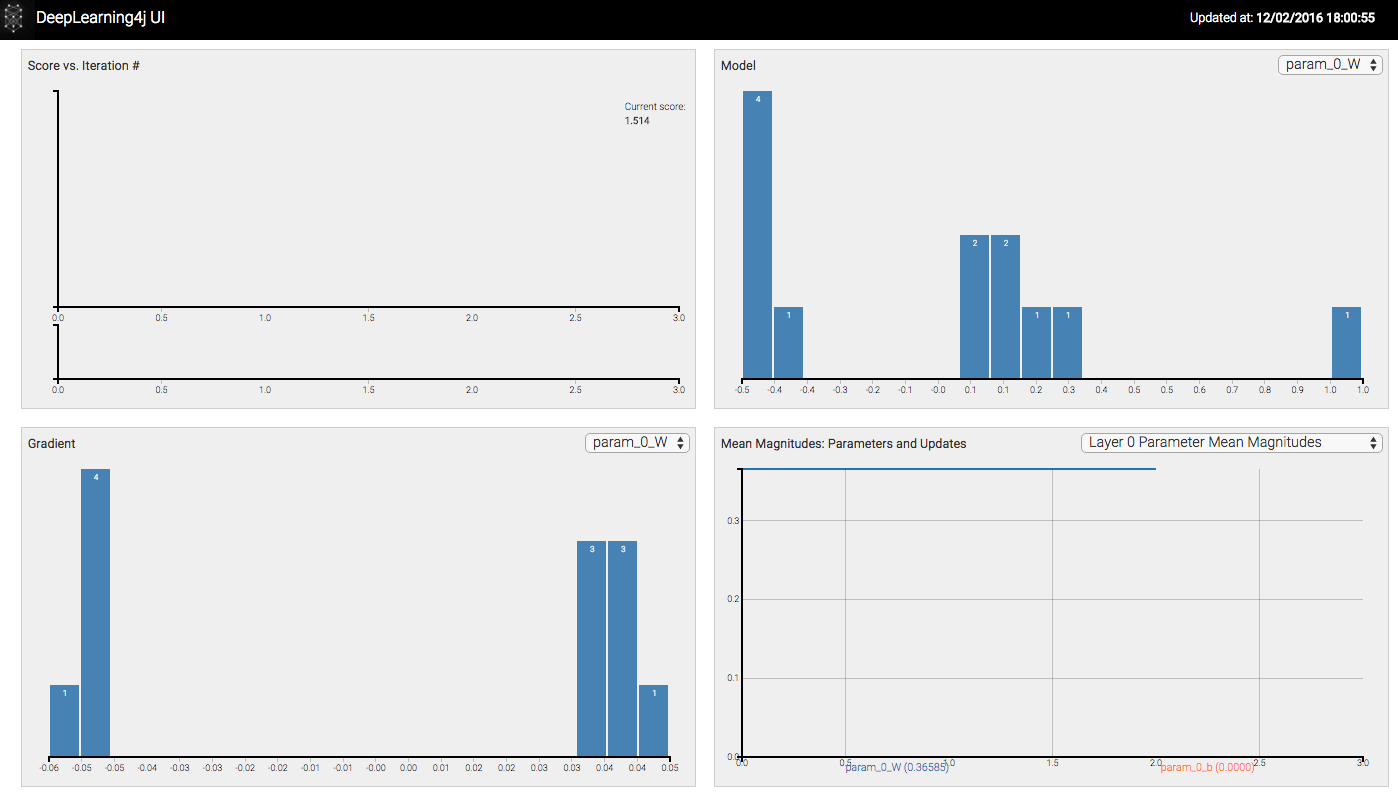
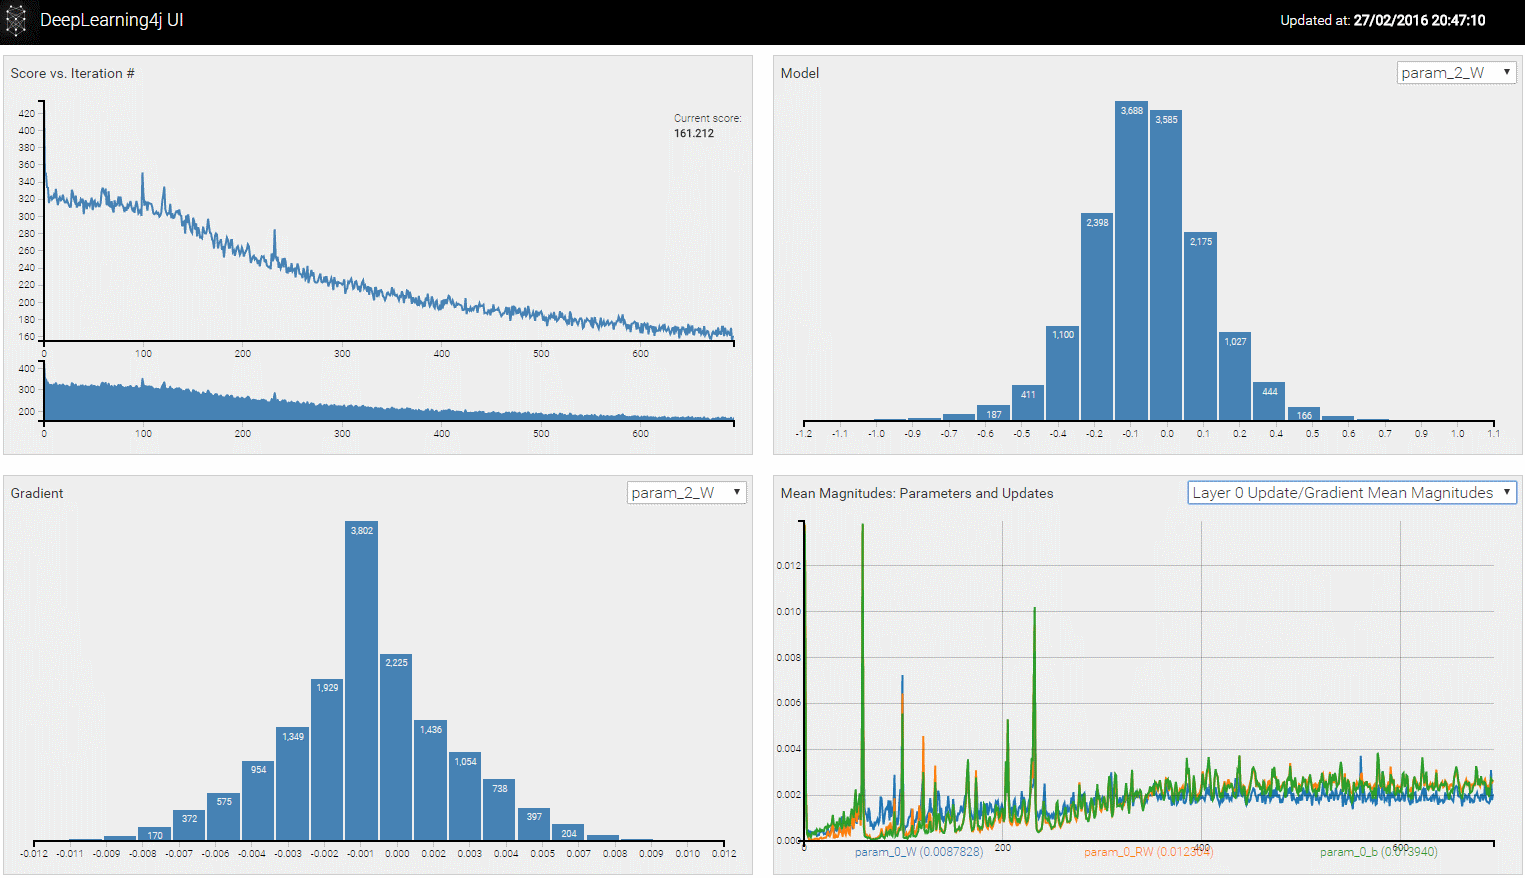
Update UI page (simplify, add updated image); remove get-involved page in favor of dev page
Former-commit-id: 52870a6ed61364ad153d99695bf1092dba05e268 [formerly 95f69c79b16e028a0f4aa8988672751526a7b55b]
Former-commit-id: 4840684a8de63dabcddee17e609d684610cbae80

diff --git a/documentation.html b/documentation.html
@@ -35,16 +35,15 @@ layout: default
                         <li><a href="http://nd4j.org/benchmarking">Run Benchmarks</a>
                         <li><a href="../buildtools">Configure DL4J in Ivy, Gradle, SBT etc</a>
                         <li><a href="../doc/">Find a DL4J Class or Method</a></li>
-                        <li><a href="../troubleshootingneuralnets">Troubleshoot Training & Select Network Hyperparameters</a></li>
                         <li><a href="../debug">Debug Neural Net Models</a></li>
                         <li><a href="../modelpersistence">Save and Load Models</a></li>
                         <li><a href="../output">Interpret Neural Net Output</a></li>
                         <li><a href="../tsne-visualization">Visualize Data with t-SNE</a></li>
                         <li><a href="http://nd4j.org/gpu_native_backends.html">Swap CPUs for GPUs</a></li>
                         <li><a href="../image-data-pipeline">Customize an Image Pipeline</a></li>
-                        <li><a href="../get-involved">Get Involved</a></li>
                         <li><a href="../linear-regression">Perform Regression With Neural Nets</a></li>
-                        <li><a href="../visualization">Render DL Visualizations in the Browser</a></li>
+						<li><a href="../troubleshootingneuralnets">Troubleshoot Training & Select Network Hyperparameters</a></li>
+                        <li><a href="../visualization">Visualize, Monitor and Debug Network Learning</a></li>
                         <li><a href="../spark-fast-native-binaries">Speed Up Spark With Native Binaries</a></li>
                         <li><a href="../welldressed-recommendation-engine">Build a Recommendation Engine With DL4J</a></li>
                         <li><a href="../usingrnns">Use Recurrent Networks in DL4J</a></li>

diff --git a/visualization.md b/visualization.md
@@ -7,51 +7,54 @@ layout: default
 
 The deeplearning4j-ui repository can display T-SNE, histograms, filters, error and activations. 
 
-Here's an example of an weight visualization during neural net training with DL4J.
+Contents
+
+* [Visualizing Network Training with HistogramIterationListener](#histogram)
+* [Using the UI to Tune Your Network](#usingui)
+* [TSNE and Word2Vec](#tsne)
+
+
+## <a name="histogram">Visualizing Network Training with HistogramIterationListener</a>
+
+DL4J provides the HistogramIterationListener as a method of visualizing in your  browser (in real time) the progress of network training. You can add a histogram iteration listener using the following code:
+
+
+    MultiLayerNetwork model = new MultiLayerNetwork(conf);
+    model.init();
+    model.setListeners(new HistogramIterationListener(1)));
+
+Once network training starts (specifically, after the first parameter update) your browser should automatically open to display the network. (If the browser does not open: check the console output for an address, and go to that address manually.)
+
+Once the UI opens, you will be presented with a display as follows:
+
 
 ![Alt text](../img/DL4J_UI.png)
+(Versions of DL4J before 0.4-rc3.9 will have a less sophisticated display).
 
-Here's an example of an error visualization with D3.
 
-![Alt text](../img/error_d3.png)
+There are four components to this display:
+
+- Top left: score (loss function) of the current minibatch vs. iteration
+- Top right: histogram of parameter values, for each parameter type
+- Bottom left: histogram of updates (updates are the gradient values after applying learning rate, momentum, etc)
+- Bottom right: line chart of the absolute value of parameters and updates, for each parameter type
+
+## <a name="usingui">Using the UI to Tune Your Network</a>
 
 And here's an excellent [web page by Andrej Karpathy](http://cs231n.github.io/neural-networks-3/#baby) about visualizing neural net training.
 
-To support visualizations that will help you monitor neural networks as they learn, and therefore debug them, you must set up an iteration listener. This is done when you instantiate and initialize any new MultiLayerNetwork.
+Here's some basics to get you started:
 
-        MultiLayerNetwork model = new MultiLayerNetwork(conf);
-        model.init();
-        model.setListeners(Arrays.asList((IterationListener) new ScoreIterationListener(listenerFreq)));
+- Score vs. iteration should (overall) go down over time. If the score increases, your learning rate may be set too high
+- The histograms of parameters (top right) and the updates (bottom left) should  have an approximately Gaussian (normal) distribution. Keep an eye out for parameters that are diverging to +/- infinity: this may be due to too high a learning rate, or insufficient regularization (try adding some L2 regularization to your network).
+- For tuning the learning rate, the ratio of parameters to updates should be somewhere in the order of 1000:1 - but note that is is a rough guide only, and may not be appropriate for all networks.
+  - If the ratio diverges significantly from this, your parameters may be too unstabe to learn useful features, or may change too slowly to learn useful features
+  - To change this ratio, adjust your learning rate (or sometimes, parameter initialization). In some networks, you may need to set the learning rate differently for different layers.
 
-The first line above passes a configuration you will have specified previously into an instance of a MultiLayerNetwork model. The second initializes the model. The third sets iteration listeners. Remember, an iteration is simply one update of a network's weights: you may decide to update the weights after a batch of examples is processed, or you may update them after a full pass through the dataset, known as an epoch.
 
-An *iterationListener* is a hook, a plugin, which monitors the iterations and reacts to what's happening. 
+## <a name="tsne">TSNE and Word2vec</a>
 
-A typical pattern for an iterationListener would be asking it to do something every two to five iterations. For example, you might ask it to print the error associated with your net's latest guess. You might ask it to plot either the latest weight distribution or the latest reconstructions that your RBM imagines match the input data, or the activations in the net itself. In addition, an iterationListener logs activity associated with the iteration, and helps you debug. 
-
-        model.setListeners(Collections.singletonList((IterationListener) new ScoreIterationListener(listenerFreq)));
-
-In this line of code, the ScoreIterationListener is passed the parameter specifying a number of iterations -- let's say you specify two -- and after every two iterations, it will print out the error or cost. (Caveat: The more often you call iterationListener, the slower your training will run...).
-
-### UI in the Browser
-
-A [UI server](https://github.com/deeplearning4j/deeplearning4j/blob/f0688a59bb712dc9d3b9eefa191a5f521bab27d0/deeplearning4j-ui/src/main/java/org/deeplearning4j/ui/UiServer.java) should start automatically with [Jetty](https://en.wikipedia.org/wiki/Jetty_(web_server)) and the results will appear here: [http://localhost:8080/weights](http://localhost:8080/weights). 
-
-(If you need to change something manually, you can run the server as a main class in Intellij or Eclipse. Alternatively, you can use `java -cp` with the right classpath and specify: `org.deeplearning4j.ui.UiServer`. That starts a Jetty server with UI functionality.)
-
-You can see the code for the [HistogramIterationListener here](https://github.com/deeplearning4j/deeplearning4j/blob/9ca18d8f0b4828a55f381d50e32b6eebcb3444e0/deeplearning4j-ui/src/main/java/org/deeplearning4j/ui/weights/HistogramIterationListener.java#L35-34). Histograms roughly in the shape of a normal curve indicate that the network is learning as it should. Normally, you might say. Histograms skewed to one side or the other, or serrated, indicate the opposite. 
-
-You would specify `HistogramIterationListener` rather than `ScoreIterationListener`, as in the line of code below:
-
-        model.setListeners(Arrays.asList(new ScoreIterationListener(listenerFreq), new HistogramIterationListener(listenerFreq)));
-
-You'll want to get familiar with the `HistogramIterationListener` in the deeplearning4j-ui repo: 
-
-* deeplearning4j-ui/src/main/java/org/deeplearning4j/ui/weights/HistogramIterationListener.java
-
-### TSNE and Word2vec
-
-We rely on [TSNE](https://lvdmaaten.github.io/tsne/) to reduce the dimensionality of [word feature vectors](../word2vec.html) and project words into a two or three-dimensional space. 
+We rely on [TSNE](https://lvdmaaten.github.io/tsne/) to reduce the dimensionality of [word feature vectors](../word2vec.html) and project words into a two or three-dimensional space. Here's some code for using TSNE with Word2Vec:
 
         log.info("Plot TSNE....");
         BarnesHutTsne tsne = new BarnesHutTsne.Builder()
